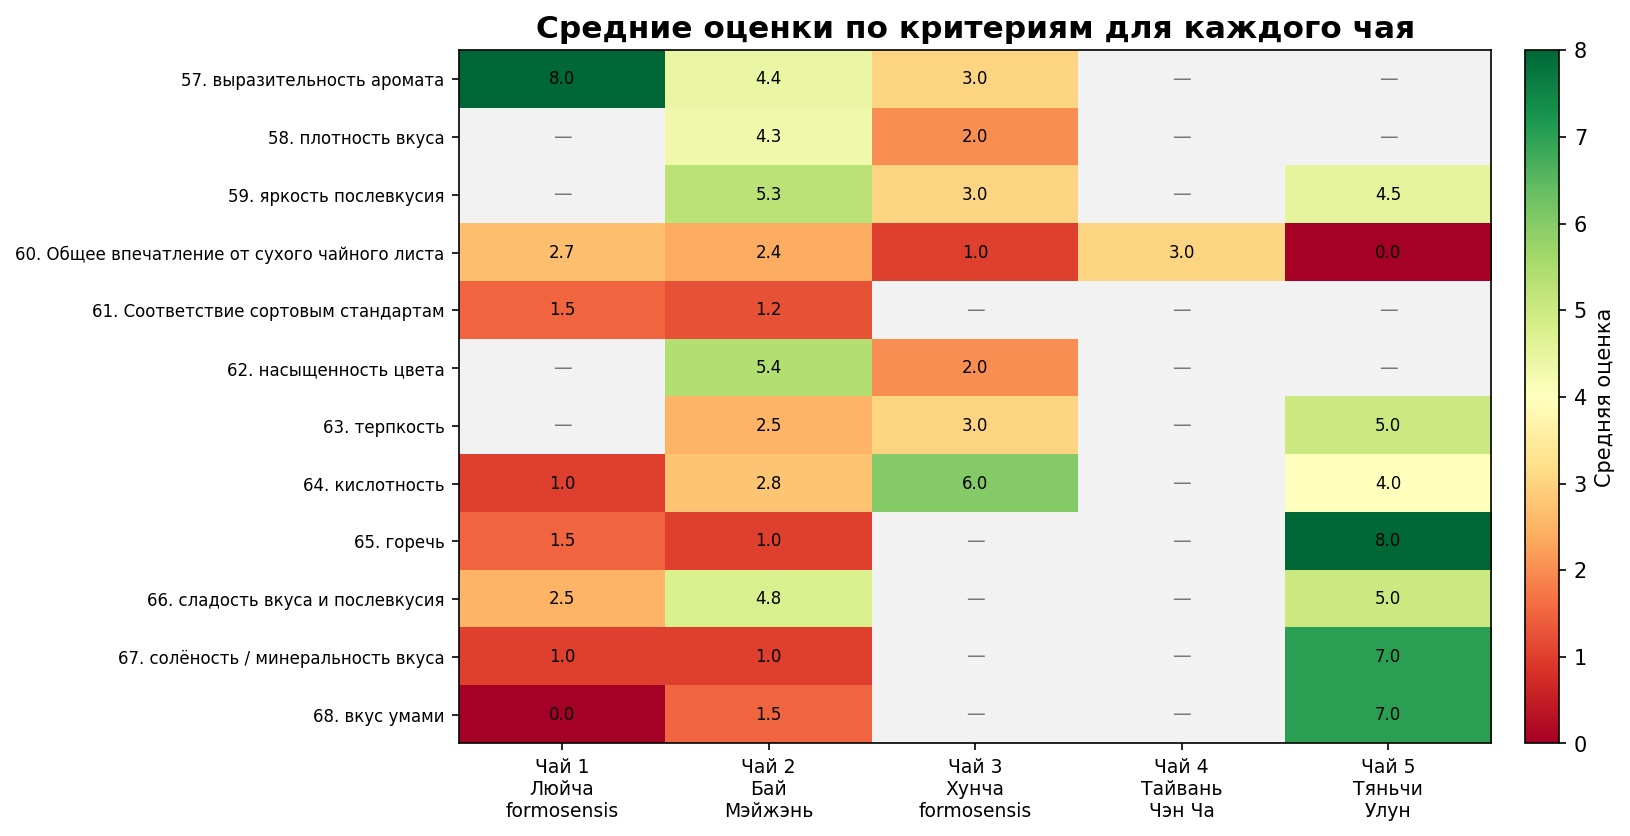
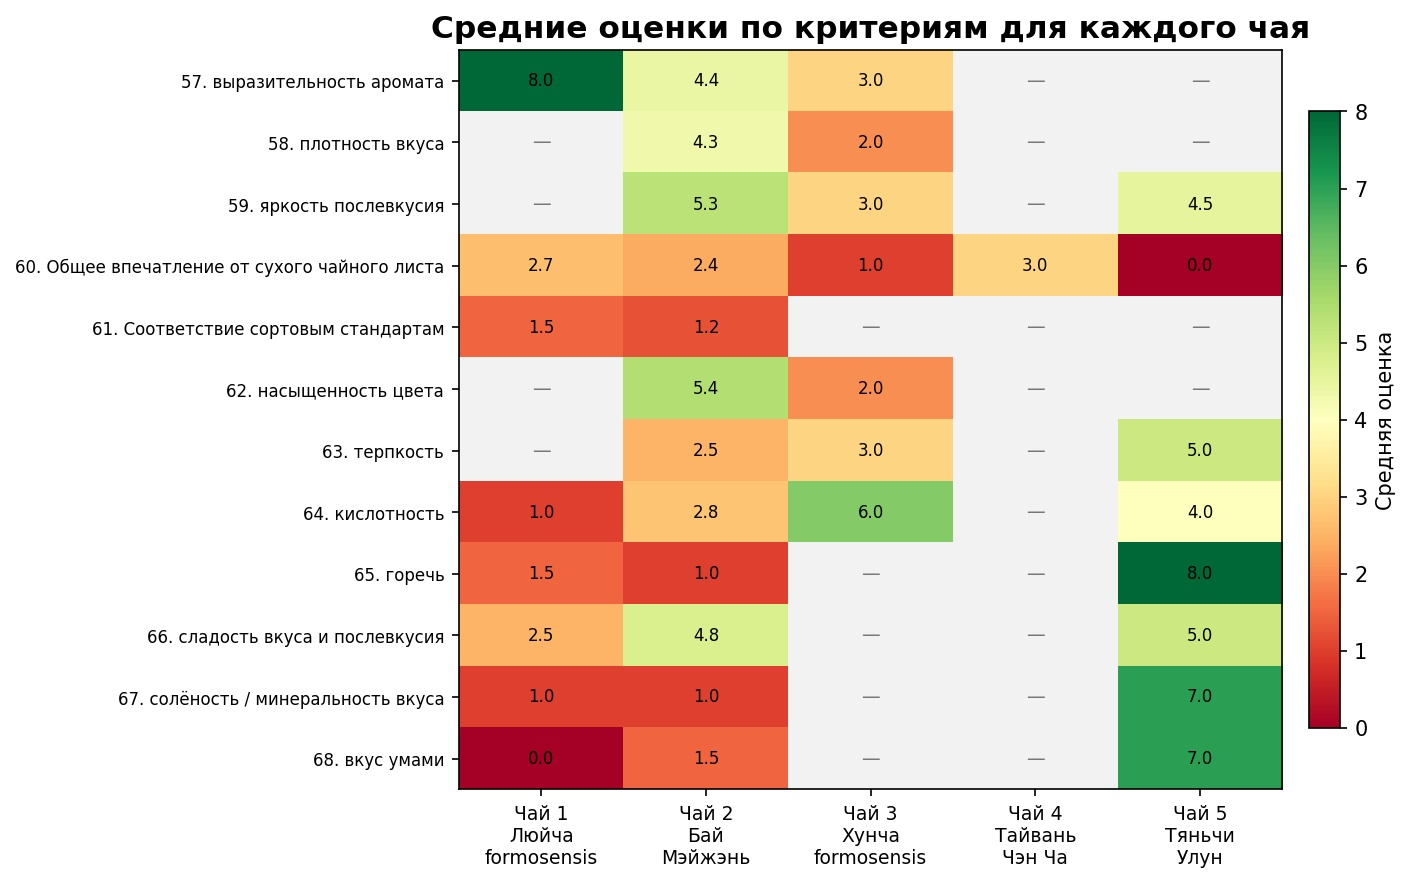
Polish tasting infographic presentation

diff --git a/generate_last_tasting_simple_infographics.py b/generate_last_tasting_simple_infographics.py
@@ -233,6 +233,7 @@ def build_marks(marks):
 
 
 def save_fig(fig, filename):
+    fig.tight_layout()
     fig.savefig(OUT_DIR / filename, format="jpeg", dpi=150, bbox_inches="tight", pil_kwargs={"quality": 95})
     plt.close(fig)
 
@@ -284,46 +285,34 @@ def draw_criterion_distribution(criteria_item, tea_marks):
         score_values = list(range(min(all_values + [0]), max(all_values + [10]) + 1))
 
     matrix = np.zeros((5, len(score_values)), dtype=int)
-    avg_labels = []
     for tea in range(5):
         counter = Counter(tea_marks.get(tea, []))
         for j, score in enumerate(score_values):
             matrix[tea, j] = counter.get(score, 0)
-        values = tea_marks.get(tea, [])
-        if values:
-            avg_labels.append(f"Чай {tea + 1}: n={len(values)}, ср={np.mean(values):.1f}")
-        else:
-            avg_labels.append(f"Чай {tea + 1}: нет оценок")
 
-    fig, ax = plt.subplots(figsize=(9.5, 5.5), facecolor="white")
+    fig, ax = plt.subplots(figsize=(9.6, 5.3), facecolor="white")
     im = ax.imshow(matrix, cmap="Blues", aspect="auto", vmin=0)
-    ax.set_title(name, fontsize=15, fontweight="bold", pad=12)
-    ax.set_xlabel("Оценка")
-    ax.set_ylabel("Чай")
+    ax.set_title(name, fontsize=16, fontweight="bold", pad=14)
+    ax.set_xlabel("Оценка", fontsize=11)
+    ax.set_ylabel("Чай", fontsize=11)
     ax.set_xticks(range(len(score_values)))
     ax.set_xticklabels([str(value) for value in score_values], fontsize=10)
     ax.set_yticks(range(5))
-    ax.set_yticklabels(
-        [f"Чай {i + 1}: {TEA_NAMES_ONE_LINE[i]}\n{avg_labels[i]}" for i in range(5)],
-        fontsize=9,
-    )
+    ax.set_yticklabels([f"Чай {i + 1}: {TEA_NAMES_ONE_LINE[i]}" for i in range(5)], fontsize=10)
 
     vmax = max(1, int(matrix.max()))
     for i in range(matrix.shape[0]):
         for j in range(matrix.shape[1]):
             value = int(matrix[i, j])
             color = "white" if value > vmax / 2 else "#222"
-            ax.text(j, i, str(value) if value else "", ha="center", va="center", fontsize=12, color=color)
+            ax.text(j, i, str(value) if value else "", ha="center", va="center", fontsize=13, color=color)
 
-    if grade:
-        labels = {int(item["value"]): item["label"] for item in grade}
-        for j, score in enumerate(score_values):
-            if score in labels:
-                ax.text(j, 5.02, labels[score], ha="center", va="top", fontsize=7, rotation=25, clip_on=False)
-        ax.set_ylim(4.5, -0.5)
+    ax.set_xticks(np.arange(-0.5, len(score_values), 1), minor=True)
+    ax.set_yticks(np.arange(-0.5, 5, 1), minor=True)
+    ax.grid(which="minor", color="white", linestyle="-", linewidth=1.2)
+    ax.tick_params(which="minor", bottom=False, left=False)
+    ax.spines[["top", "right", "bottom", "left"]].set_visible(False)
 
-    cbar = fig.colorbar(im, ax=ax, fraction=0.035, pad=0.03)
-    cbar.set_label("Количество участников")
     filename = f"{cid:02d}_{slugify(name)}_distribution.jpg"
     save_fig(fig, filename)
 
@@ -368,20 +357,25 @@ def draw_tags_by_tea(tags):
             matrix[tea, j] = by_tea[tea][tag]
 
     fig, ax = plt.subplots(figsize=(11, 5.2), facecolor="white")
-    im = ax.imshow(matrix, cmap="Blues", aspect="auto", vmin=0)
-    ax.set_title("Тэги по чаям (топ-15 тэгов)", fontsize=15, fontweight="bold")
+    ax.imshow(matrix, cmap="Blues", aspect="auto", vmin=0)
+    ax.set_title("Тэги по чаям (топ-15)", fontsize=16, fontweight="bold", pad=14)
     ax.set_xticks(range(len(selected)))
     ax.set_xticklabels(selected, rotation=45, ha="right", fontsize=9)
     ax.set_yticks(range(5))
     ax.set_yticklabels([f"Чай {i + 1}: {TEA_NAMES_ONE_LINE[i]}" for i in range(5)], fontsize=9)
+
     vmax = max(1, int(matrix.max()) if matrix.size else 1)
     for i in range(matrix.shape[0]):
         for j in range(matrix.shape[1]):
             value = int(matrix[i, j])
             color = "white" if value > vmax / 2 else "#222"
-            ax.text(j, i, str(value) if value else "", ha="center", va="center", fontsize=9, color=color)
-    cbar = fig.colorbar(im, ax=ax, fraction=0.035, pad=0.03)
-    cbar.set_label("Количество отметок")
+            ax.text(j, i, str(value) if value else "", ha="center", va="center", fontsize=10, color=color)
+
+    ax.set_xticks(np.arange(-0.5, len(selected), 1), minor=True)
+    ax.set_yticks(np.arange(-0.5, 5, 1), minor=True)
+    ax.grid(which="minor", color="white", linestyle="-", linewidth=1.1)
+    ax.tick_params(which="minor", bottom=False, left=False)
+    ax.spines[["top", "right", "bottom", "left"]].set_visible(False)
     save_fig(fig, "03_tags_by_tea_heatmap.jpg")
 
 
@@ -393,12 +387,10 @@ def draw_activity(activity):
     ax.bar(x, values, color="#59A14F")
     ax.set_xticks(x)
     ax.set_xticklabels(labels, rotation=45, ha="right", fontsize=9)
-    ax.set_ylabel("Количество оценённых критериев")
-    ax.set_title("Активность участников: сколько критериев оценено", fontsize=15, fontweight="bold")
+    ax.set_ylabel("Количество оценённых критериев", fontsize=11)
+    ax.set_title("Активность участников", fontsize=16, fontweight="bold", pad=14)
     ax.grid(axis="y", color="#dddddd")
     ax.spines[["top", "right"]].set_visible(False)
-    for xi, value in zip(x, values):
-        ax.text(xi, value + 0.5, str(value), ha="center", fontsize=9)
     save_fig(fig, "04_activity_criteria_marks.jpg")
 
 
@@ -413,12 +405,10 @@ def draw_text_comments_count(free_texts):
     ax.bar(x, values, color="#F28E2B")
     ax.set_xticks(x)
     ax.set_xticklabels([f"Чай {i + 1}\n{TEA_NAMES[i]}" for i in range(5)], fontsize=9)
-    ax.set_ylabel("Количество текстовых комментариев")
-    ax.set_title("Свободные текстовые комментарии по чаям", fontsize=15, fontweight="bold")
+    ax.set_ylabel("Количество комментариев", fontsize=11)
+    ax.set_title("Свободные текстовые комментарии", fontsize=16, fontweight="bold", pad=14)
     ax.grid(axis="y", color="#dddddd")
     ax.spines[["top", "right"]].set_visible(False)
-    for xi, value in zip(x, values):
-        ax.text(xi, value + 0.05, str(value), ha="center", fontsize=10)
     save_fig(fig, "05_free_text_comments_by_tea.jpg")
 
 
@@ -439,28 +429,17 @@ def draw_selected_and_freeform_tags(tags, free_texts, phrase_answers):
     for tea_order, template, answers in phrase_answers:
         values = answers if isinstance(answers, list) else []
         typed_values = []
-
-        # In these phrase templates the first blank is a controlled intensity choice.
-        # It is not a keyboard-entered tag, so skip it. Keep only the following
-        # descriptor blanks unless they are controlled values too.
         for value in values[1:]:
             value = str(value).strip()
             if value and value.lower() not in controlled_values:
                 typed_values.append(value)
-
-        # A few legacy answers can place a user-entered word in the first blank
-        # for short templates. Include it only when it is not one of the controlled
-        # intensity choices.
         if values:
             first = str(values[0]).strip()
             if first and first.lower() not in controlled_values and len(values) <= 3:
                 typed_values.insert(0, first)
-
         for value in typed_values:
             counts[f"своб. тэг: {value}"][tea_order] += 1
 
-    # Free text fields are manual keyboard input. Keep them separate from tags,
-    # with short readable summaries.
     free_text_patterns = [
         ("печенье / ваниль", ["печень", "ванил"]),
         ("пыльные / сахарные ноты", ["пыль", "сахар"]),
@@ -495,14 +474,13 @@ def draw_selected_and_freeform_tags(tags, free_texts, phrase_answers):
             matrix[i, tea] = counts[row][tea]
 
     fig, ax = plt.subplots(figsize=(10.5, max(7, len(rows) * 0.34)), facecolor="white")
-    im = ax.imshow(matrix, cmap="Blues", aspect="auto", vmin=0)
-    ax.set_title("Отмеченные тэги и ручной ввод по каждому чаю", fontsize=15, fontweight="bold")
+    ax.imshow(matrix, cmap="Blues", aspect="auto", vmin=0)
+    ax.set_title("Тэги и ручной ввод по чаям", fontsize=16, fontweight="bold", pad=14)
     ax.set_xticks(range(5))
     ax.set_xticklabels([f"Чай {i + 1}\n{TEA_NAMES[i]}" for i in range(5)], fontsize=9)
     ax.set_yticks(range(len(rows)))
     ax.set_yticklabels(rows, fontsize=8)
-    ax.set_xlabel("Чай")
-    ax.set_ylabel("Стандартный тэг / ручной ввод")
+    ax.set_xlabel("Чай", fontsize=11)
 
     vmax = max(1, int(matrix.max()) if matrix.size else 1)
     for i in range(matrix.shape[0]):
@@ -511,8 +489,11 @@ def draw_selected_and_freeform_tags(tags, free_texts, phrase_answers):
             color = "white" if value > vmax / 2 else "#222"
             ax.text(j, i, str(value) if value else "", ha="center", va="center", fontsize=9, color=color)
 
-    cbar = fig.colorbar(im, ax=ax, fraction=0.035, pad=0.03)
-    cbar.set_label("Количество отметок")
+    ax.set_xticks(np.arange(-0.5, 5, 1), minor=True)
+    ax.set_yticks(np.arange(-0.5, len(rows), 1), minor=True)
+    ax.grid(which="minor", color="white", linestyle="-", linewidth=1.1)
+    ax.tick_params(which="minor", bottom=False, left=False)
+    ax.spines[["top", "right", "bottom", "left"]].set_visible(False)
     save_fig(fig, "06_tags_and_freeform_by_tea.jpg")
 
 
